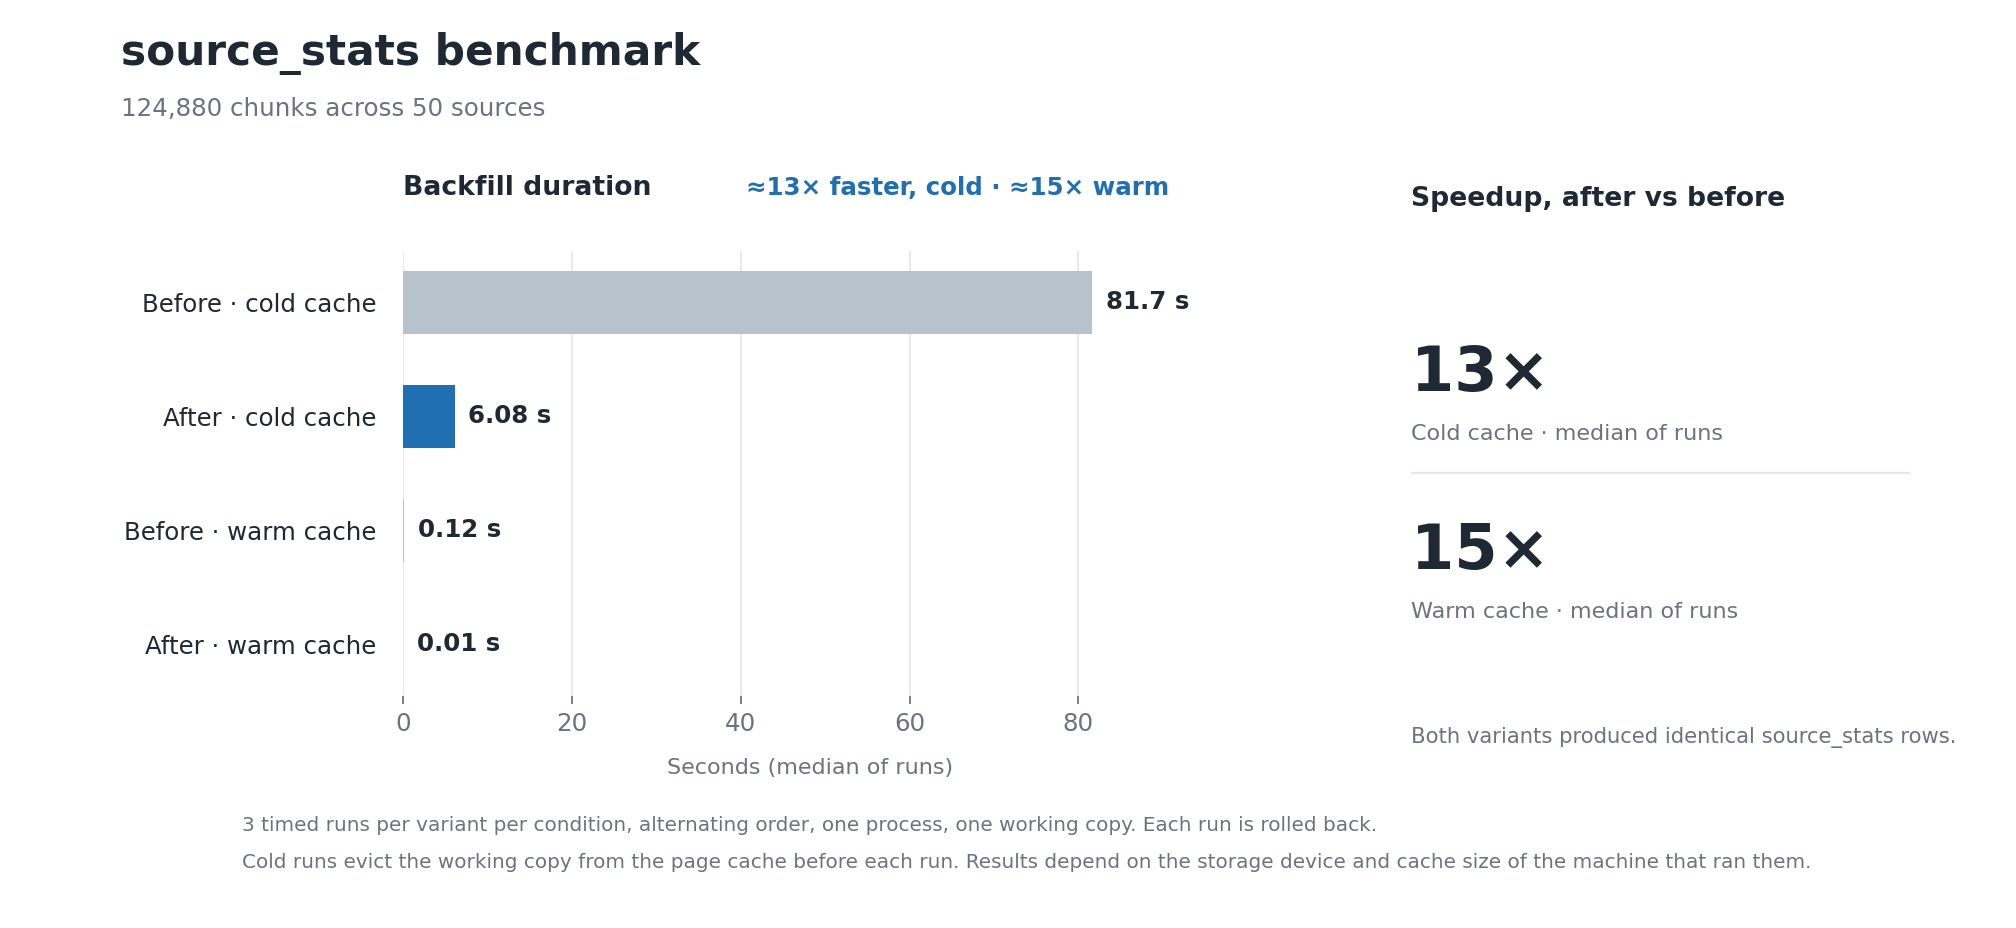
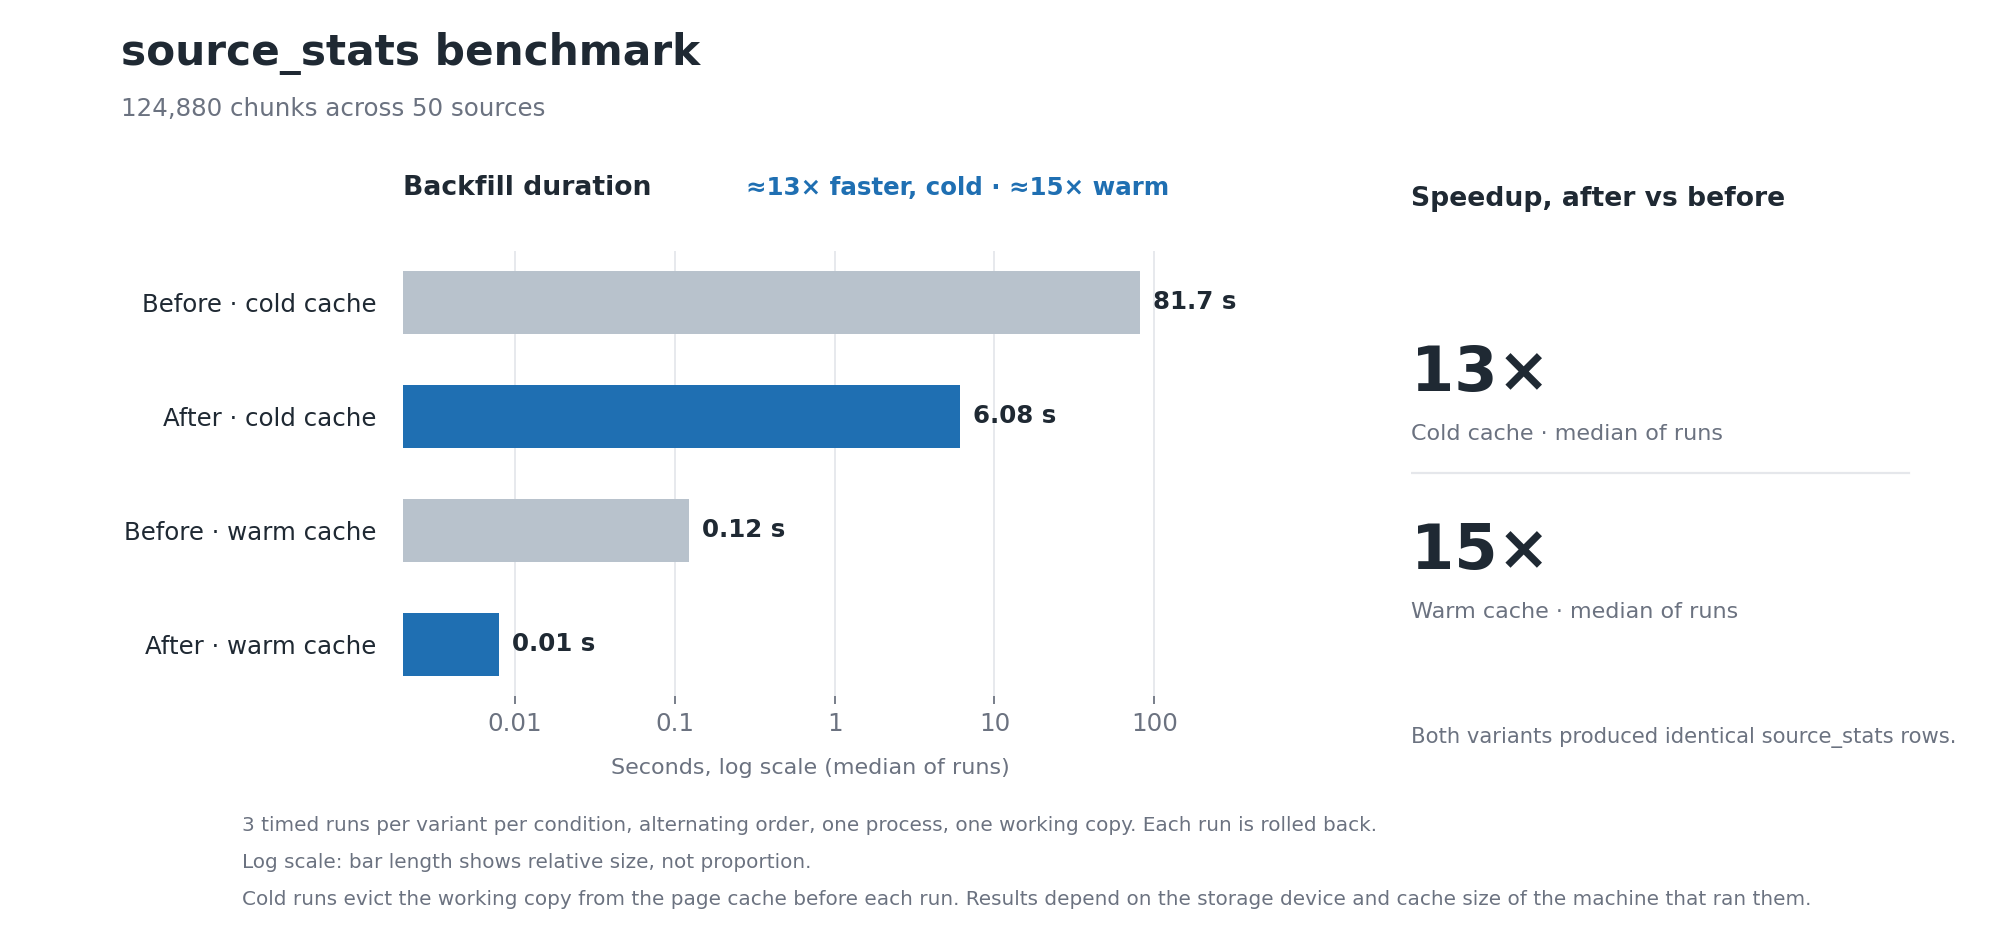
docs: log-scale the backfill benchmark chart
Bar length now shows relative size on a log axis, with a footer line saying so.

diff --git a/benchmarks/source-stats-backfill/make_chart.py b/benchmarks/source-stats-backfill/make_chart.py
@@ -49,15 +49,20 @@ ax.invert_yaxis()
 ax.set_yticks(list(y), names)
 ax.tick_params(axis='y', length=0, pad=12)
 top = max(values)
-ax.set_xlim(0, top * 1.18)
-ax.set_xlabel('Seconds (median of runs)', fontsize=10, color=MUTED, labelpad=10)
+bottom = min(values) / 4
+ax.set_xscale('log')
+ax.set_xlim(bottom, top * 3)
+ax.set_xticks([0.01, 0.1, 1, 10, 100])
+ax.set_xticklabels(['0.01', '0.1', '1', '10', '100'])
+ax.minorticks_off()
+ax.set_xlabel('Seconds, log scale (median of runs)', fontsize=10, color=MUTED, labelpad=10)
 ax.xaxis.grid(True, color=GRID, linewidth=0.8)
 ax.set_axisbelow(True)
 for spine in ax.spines.values():
     spine.set_visible(False)
 for i, v in enumerate(values):
     label = f'{v:.1f} s' if v >= 10 else f'{v:.2f} s'
-    ax.text(v + top * 0.02, i, label, ha='left', va='center', fontweight='bold', fontsize=11)
+    ax.text(v * 1.2, i, label, ha='left', va='center', fontweight='bold', fontsize=11)
 
 fig.text(0.20, 0.79, 'Backfill duration', fontsize=12, fontweight='bold')
 fig.text(0.58, 0.79, f"≈{cold['ratio_of_medians']:.0f}× faster, cold · ≈{warm['ratio_of_medians']:.0f}× warm",
@@ -80,6 +85,9 @@ fig.text(0.12, 0.105,
          f'{runs} timed runs per variant per condition, alternating order, one process, one working copy. '
          'Each run is rolled back.', fontsize=9, color=MUTED)
 fig.text(0.12, 0.065,
+         'Log scale: bar length shows relative size, not proportion.',
+         fontsize=9, color=MUTED)
+fig.text(0.12, 0.025,
          'Cold runs evict the working copy from the page cache before each run. '
          'Results depend on the storage device and cache size of the machine that ran them.',
          fontsize=9, color=MUTED)
